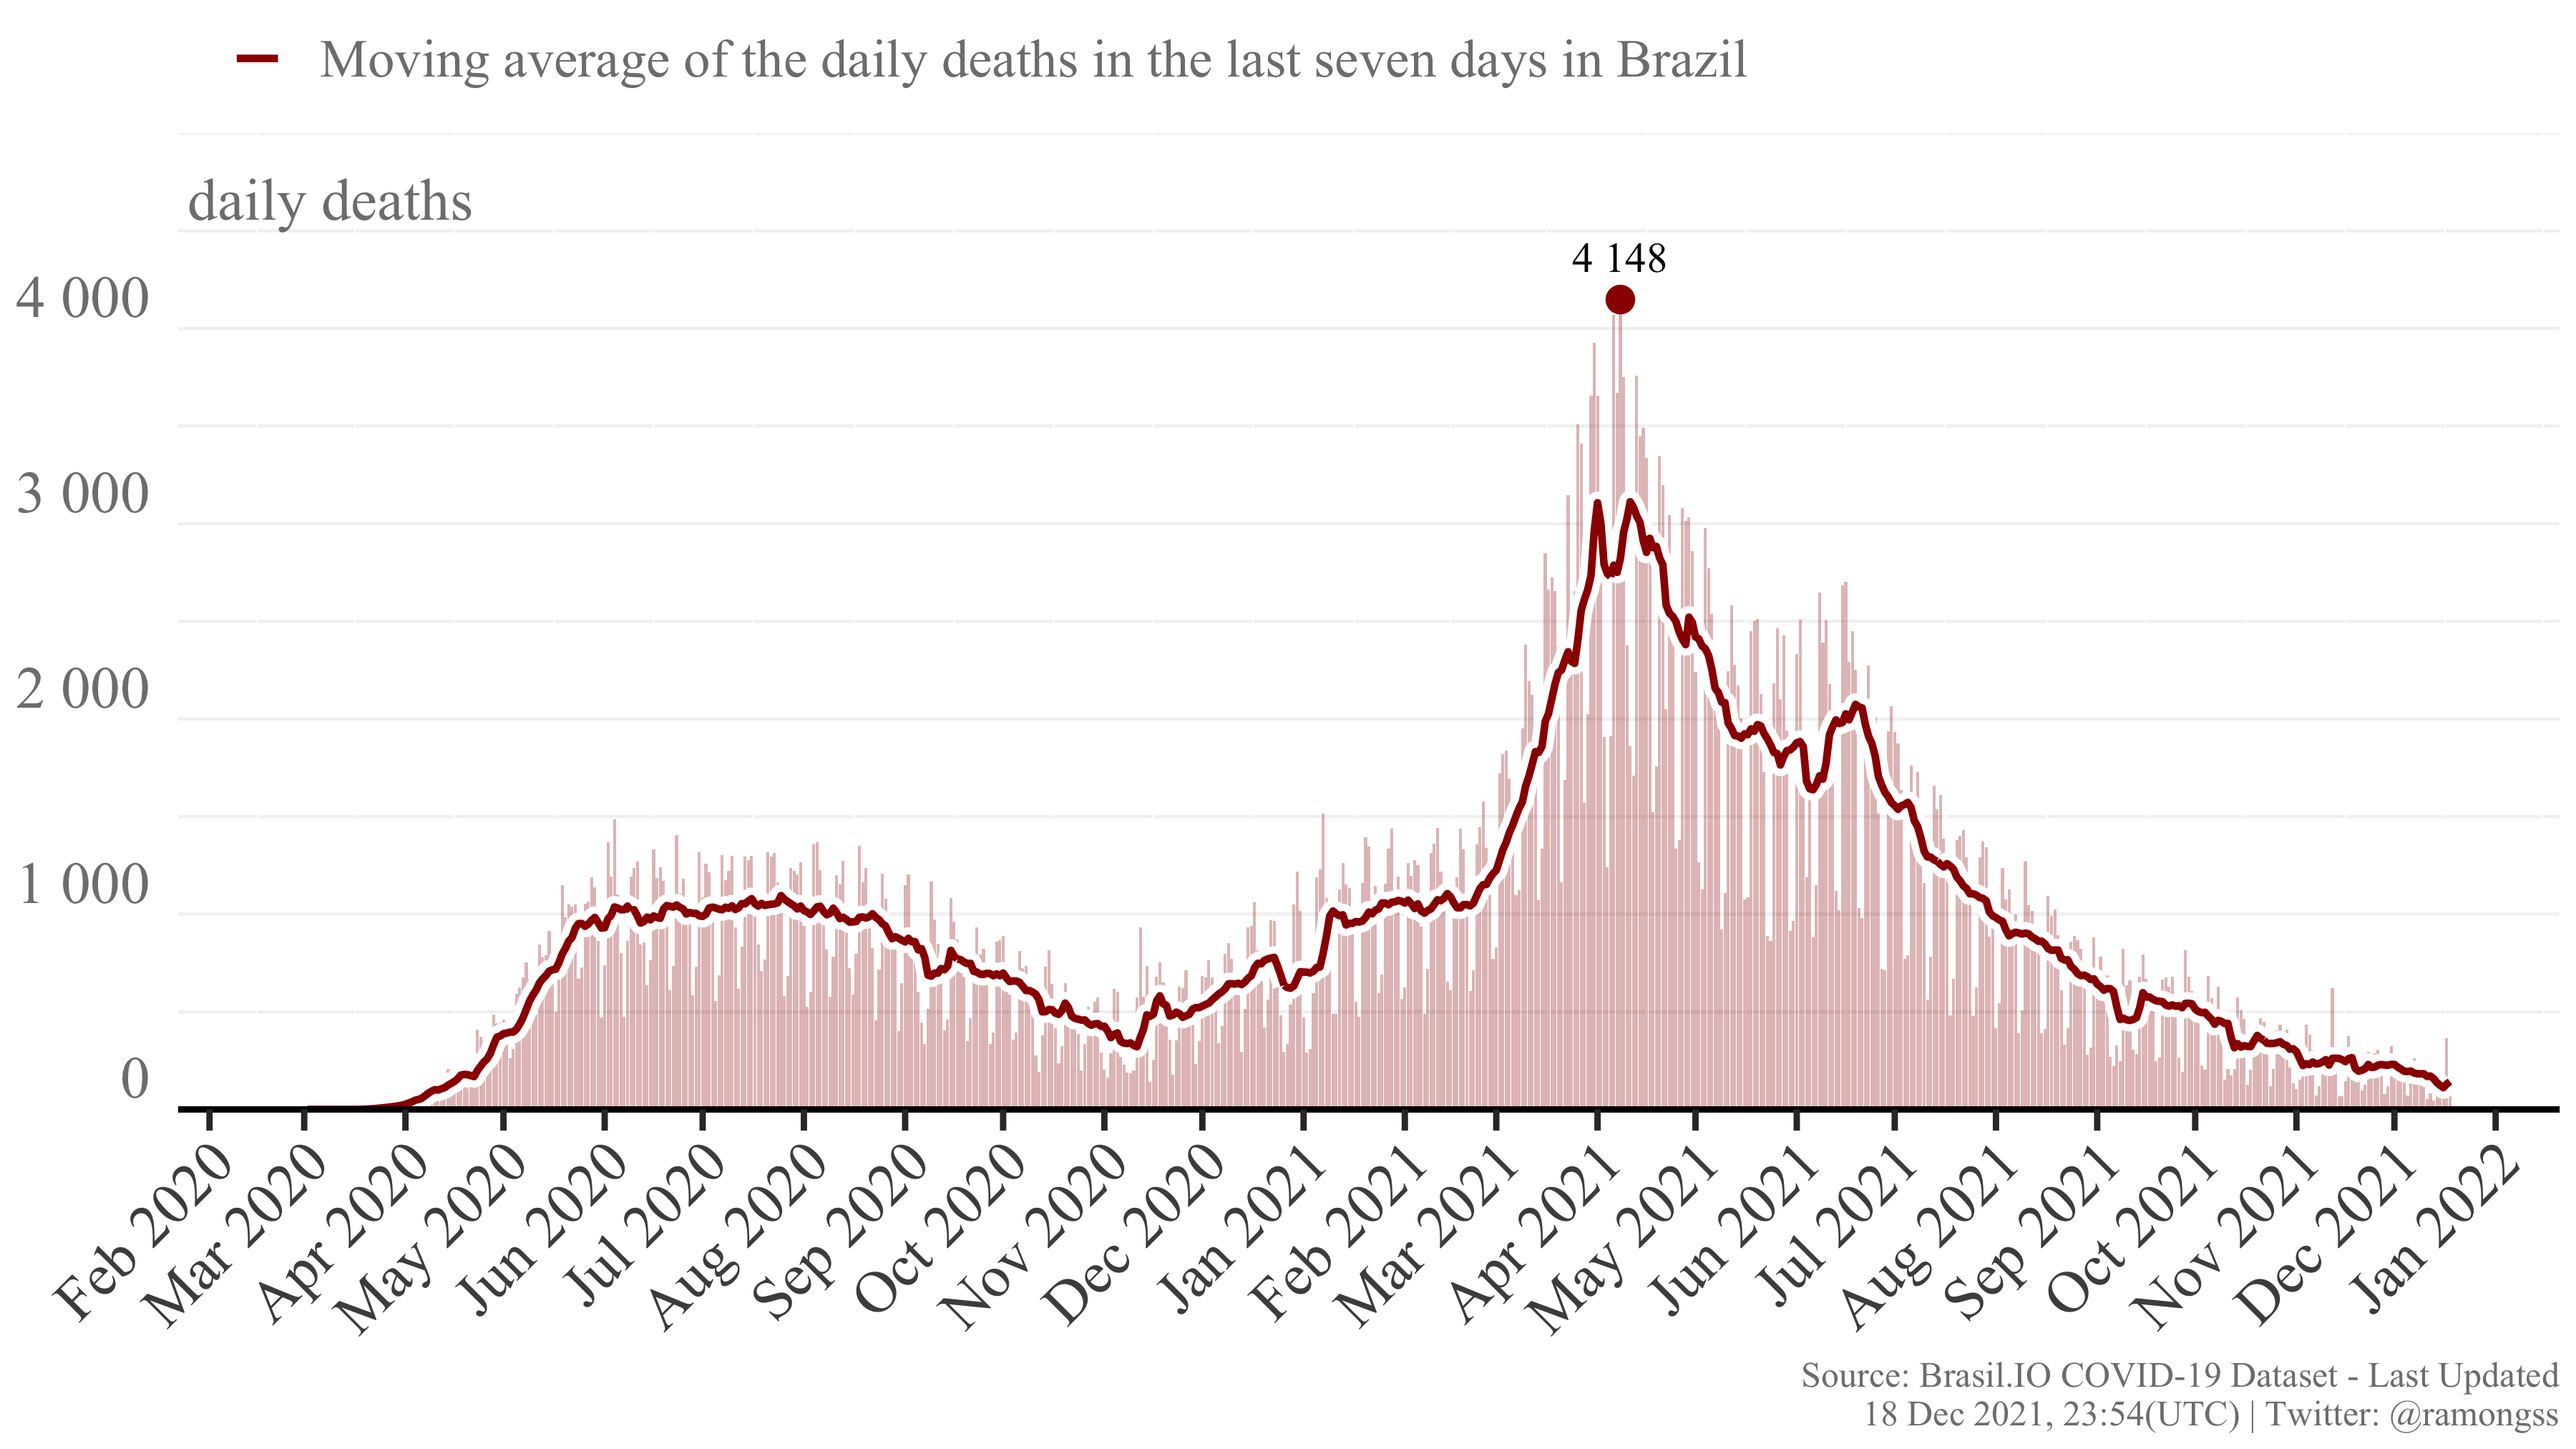
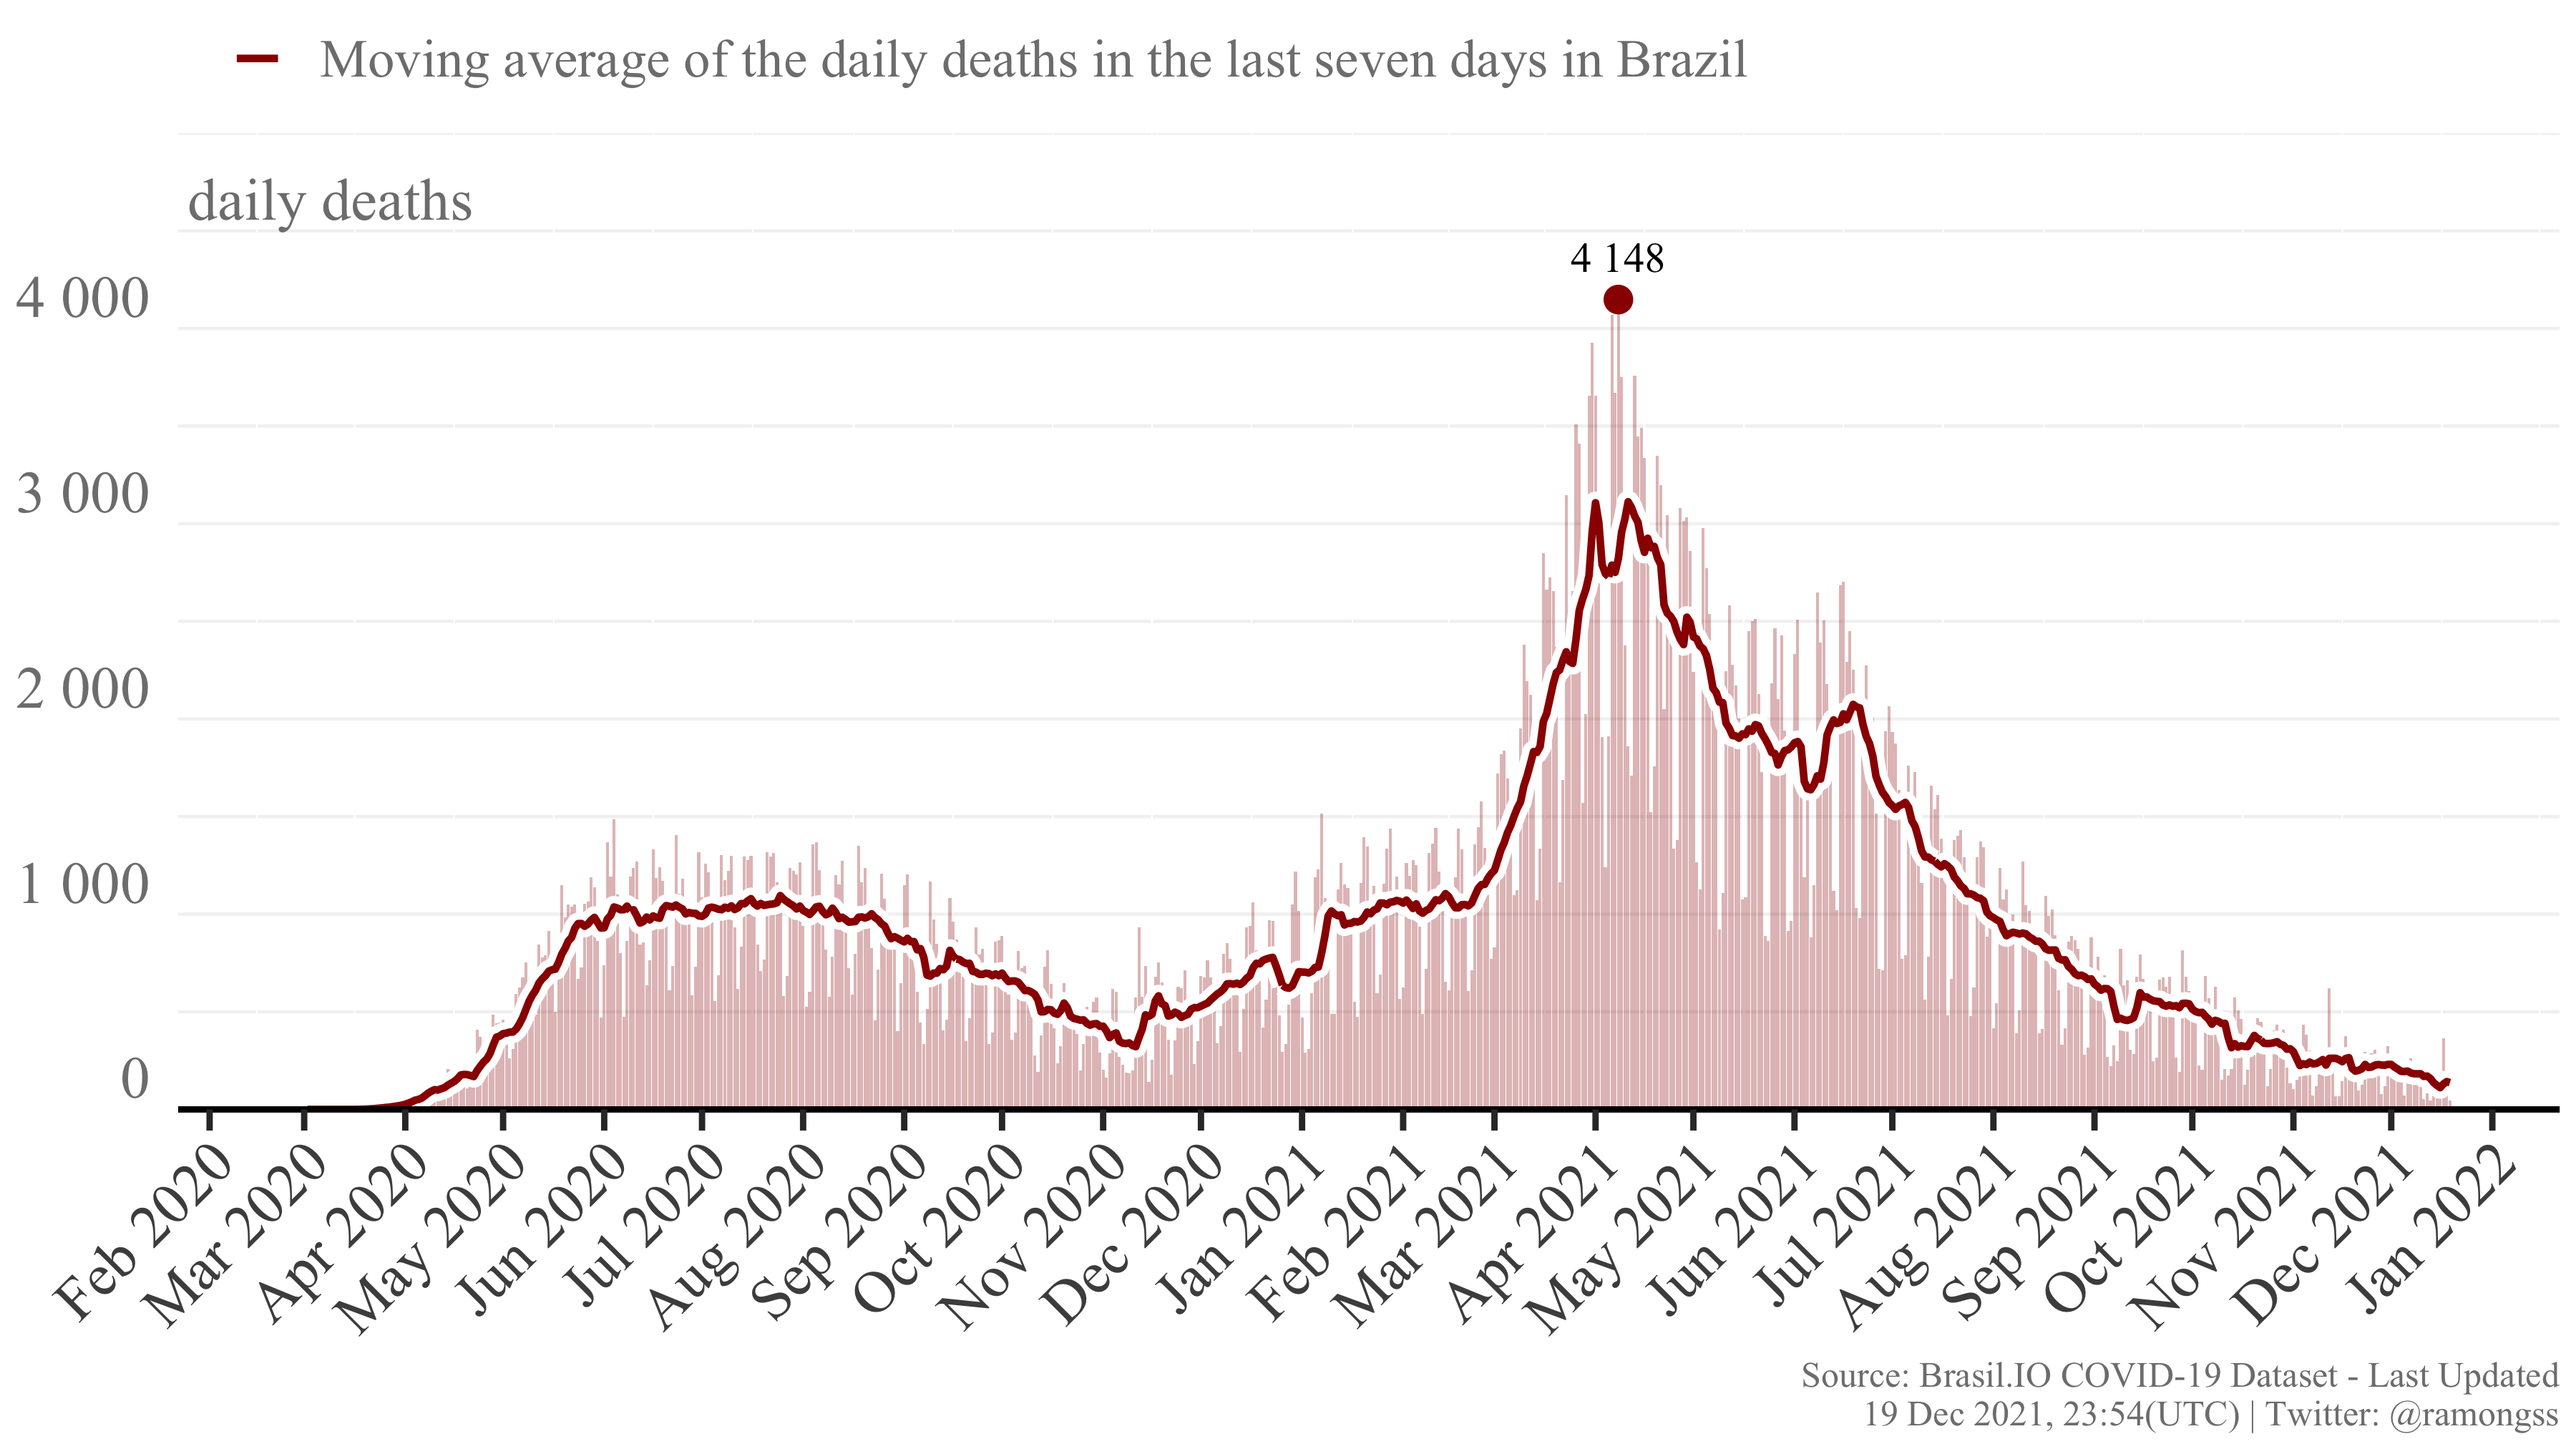
Re-build README.Rmd

diff --git a/README.md b/README.md
@@ -27,8 +27,8 @@ download_brasilio_table <- function(dataset = "covid19", table_name){
 
 ## COVID-19 Confirmed cases
 
-Currently, Brazil has a total of **22,216,112** confirmed cases at **18
-Dec, 2021**, with **2,381** new confirmed cases. The daily maximum
+Currently, Brazil has a total of **22,217,270** confirmed cases at **19
+Dec, 2021**, with **1,158** new confirmed cases. The daily maximum
 incidence was **124,878** confirmed cases at **18 Sep, 2021**. Here
 follows the Figure showing the confirmed case incidence as the bars, and
 the line as the moving average of the last 7 days.
@@ -37,11 +37,11 @@ the line as the moving average of the last 7 days.
 
 ## COVID-19 Deaths
 
-Currently, Brazil has a total of **618,011** deaths at **18 Dec, 2021**,
-with **138** new deaths. The daily maximum deaths incidence was
-**4,148** deaths at **08 Apr, 2021**. Here follows the Figure showing
-the deaths incidence as the bars, and the line as the moving average of
-the last 7 days.
+Currently, Brazil has a total of **618,057** deaths at **19 Dec, 2021**,
+with **46** new deaths. The daily maximum deaths incidence was **4,148**
+deaths at **08 Apr, 2021**. Here follows the Figure showing the deaths
+incidence as the bars, and the line as the moving average of the last 7
+days.
 
 ![COVID-19 Deaths](figures/deaths.png)
 
@@ -49,4 +49,4 @@ the last 7 days.
 
 This page is daily updated automatically using Github Actions.
 
-*Last update: 18 Dec 2021, 23:54 (UTC).*
+*Last update: 19 Dec 2021, 23:54 (UTC).*
